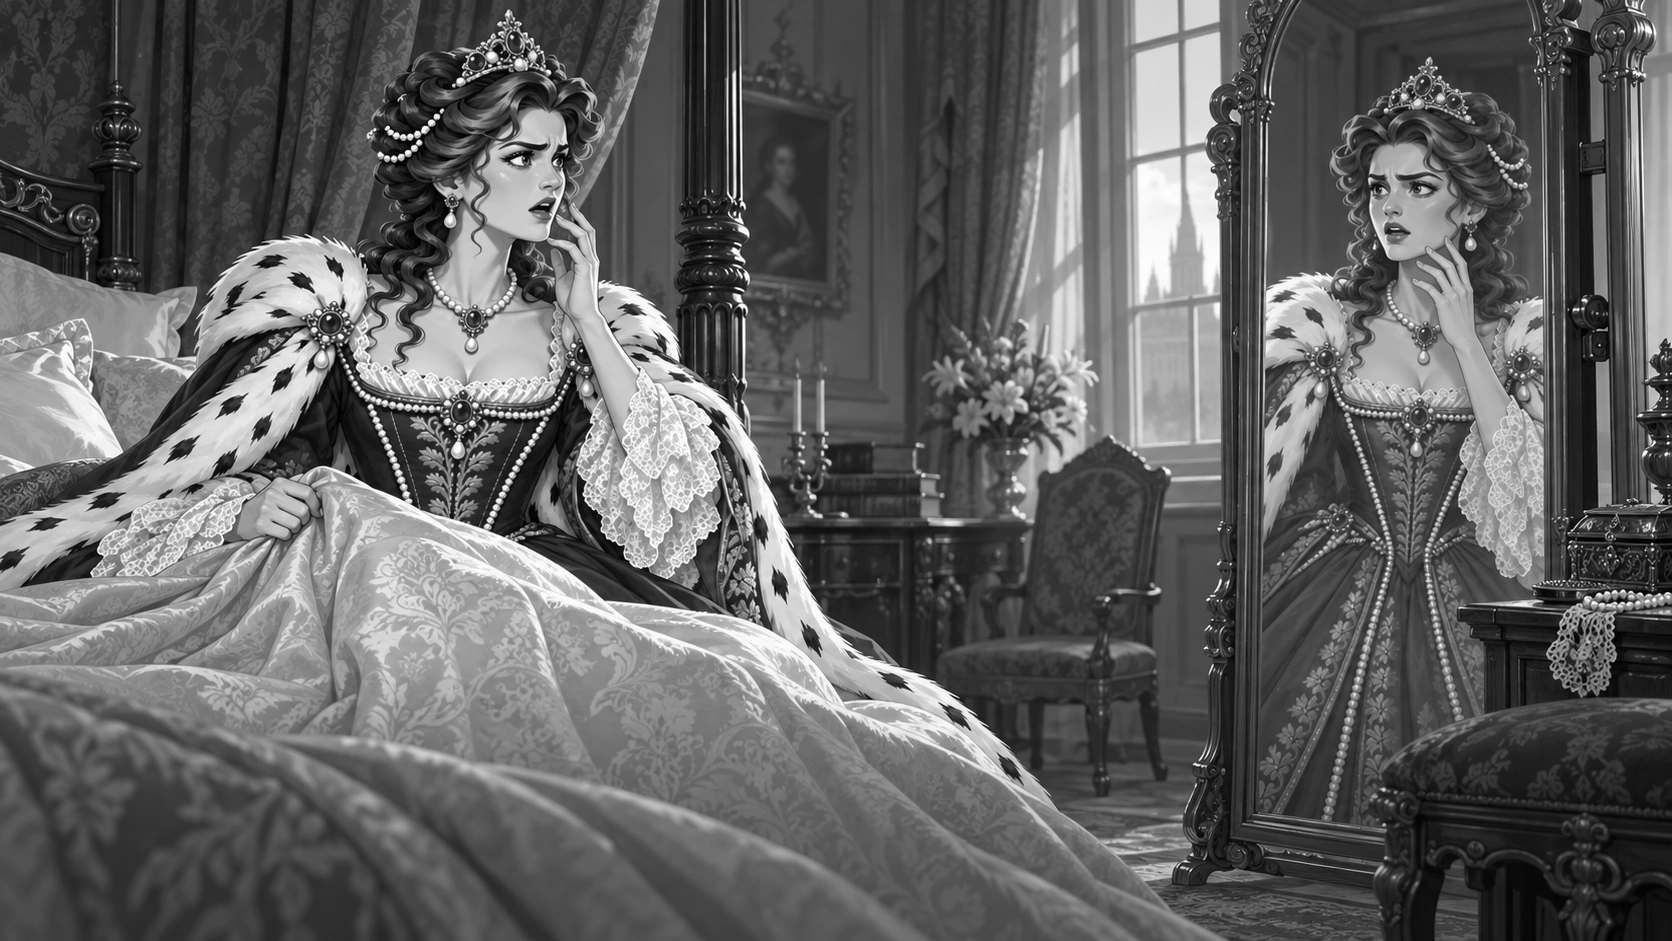
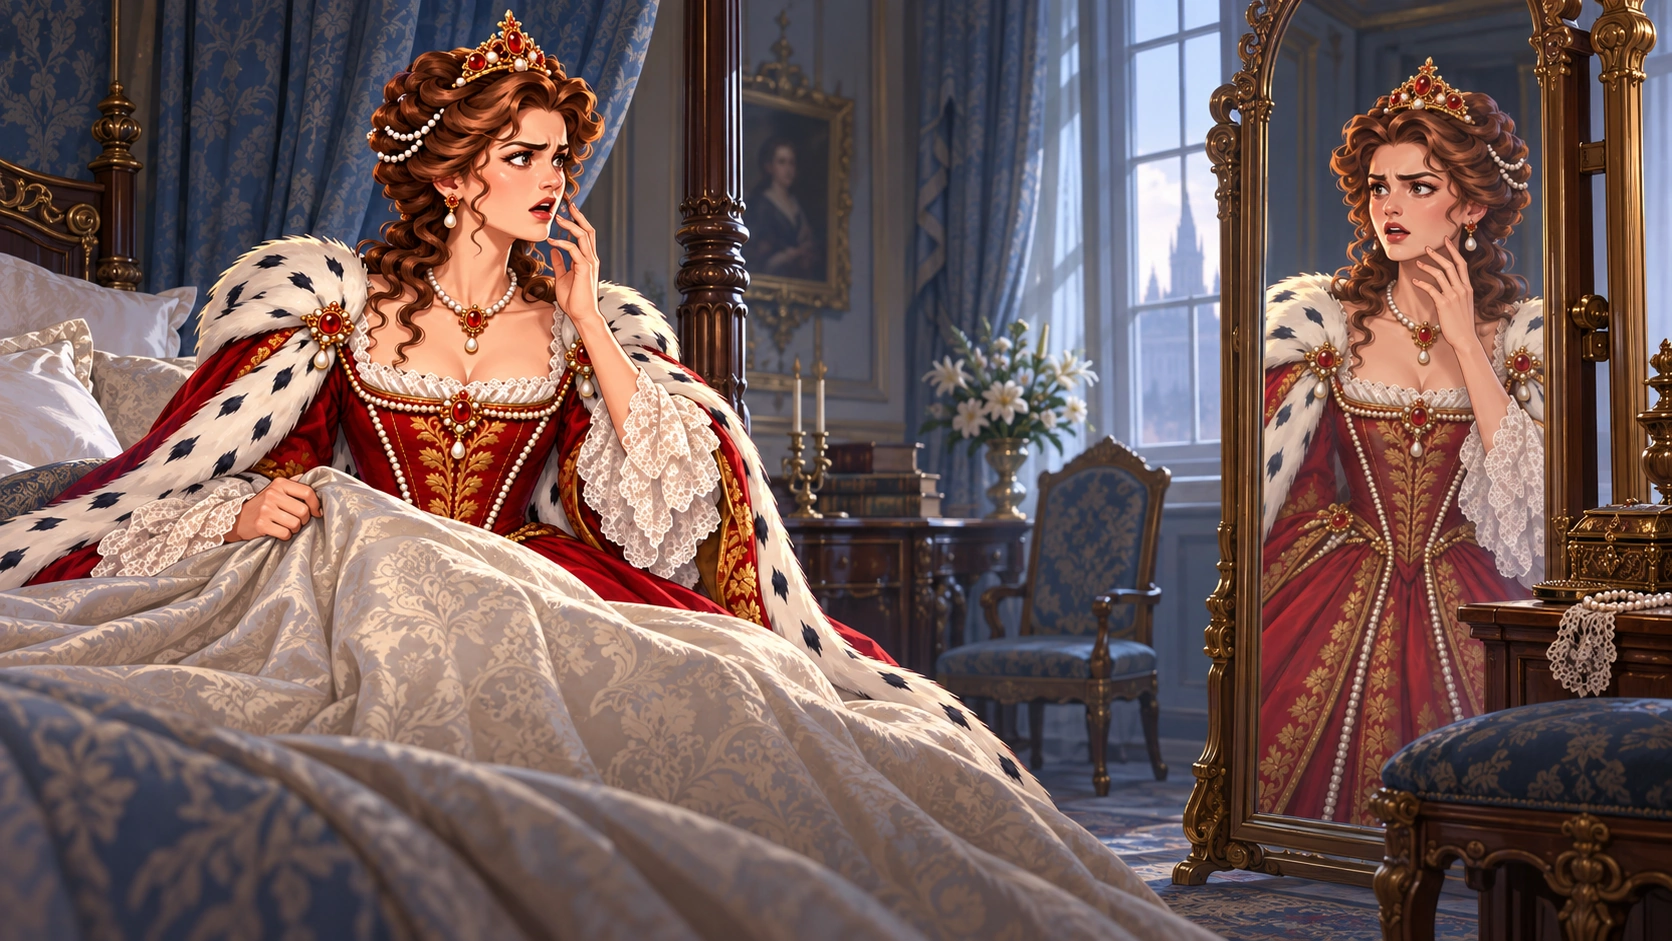
Add files via upload

diff --git a/index.html b/index.html
@@ -7,8 +7,42 @@
   <meta name="mobile-web-app-capable" content="yes">
   <meta name="apple-mobile-web-app-capable" content="yes">
   <meta name="apple-mobile-web-app-status-bar-style" content="black-translucent">
-  <title>태양왕이 여왕이 되었다 · v0.49</title>
-  <link rel="stylesheet" href="css/style.css">
+  <title>태양왕이 여왕이 되었다 · v0.51</title>
+  <link rel="stylesheet" href="css/style.css?v=050">
+
+  <style>
+    #sunRecovery{position:fixed;inset:0;z-index:100000;background:rgba(5,8,13,.97);color:#f1ece1;display:none;align-items:center;justify-content:center;padding:26px;font-family:system-ui,sans-serif;text-align:center}
+    #sunRecovery.is-visible{display:flex}#sunRecovery>div{max-width:460px}#sunRecovery h2{margin:0 0 12px;font-size:23px}#sunRecovery p{line-height:1.6;font-size:15px}#sunRecovery button{margin-top:14px;padding:12px 20px;background:#d7ba72;color:#17130c;border:0;border-radius:7px;font-weight:800;cursor:pointer}
+  </style>
+  <script>
+  (function(){
+    var hasFatal=false;
+    function showProblem(){var el=document.getElementById('sunRecovery');if(el)el.classList.add('is-visible');}
+    window.addEventListener('error',function(ev){
+      if(ev instanceof ErrorEvent && ev.message && !/ResizeObserver loop/i.test(ev.message)){hasFatal=true;showProblem();}
+    });
+    window.addEventListener('unhandledrejection',function(ev){
+      var msg=String(ev.reason||'');if(/Loading chunk|ReferenceError|SyntaxError|TypeError/.test(msg)){hasFatal=true;showProblem();}
+    });
+    window.sunKingHardRefresh=async function(){
+      var btn=document.getElementById('sunRecoveryButton');if(btn)btn.disabled=true;
+      try{if('caches' in window){var names=await caches.keys();await Promise.all(names.filter(function(k){return k.startsWith('sun-king-queen-')}).map(function(k){return caches.delete(k)}));}
+        if(navigator.serviceWorker){var regs=await navigator.serviceWorker.getRegistrations();await Promise.all(regs.filter(function(r){return r.scope.includes('/-france-england/')||r.scope.includes('127.0.0.1')}).map(function(r){return r.unregister()}));}}
+      catch(err){}
+      var url=new URL(location.href);url.searchParams.set('refresh',String(Date.now()));location.replace(url.href);
+    };
+    window.addEventListener('DOMContentLoaded',function(){
+      var btn=document.getElementById('startBtn');if(!btn)return;
+      btn.addEventListener('click',function(){setTimeout(function(){
+        if(hasFatal)return;
+        var story=document.getElementById('storyScreen');if(!story||!story.classList.contains('active'))return;
+        var isShown=function(id){var el=document.getElementById(id);return !!el && getComputedStyle(el).display!=='none' && getComputedStyle(el).visibility!=='hidden'};
+        var panel=document.getElementById('dialogueText');var intro=document.getElementById('openingNarrationText');
+        if(!isShown('openingNarrationOverlay')&&!isShown('intertitleOverlay')&&!isShown('actionBeatOverlay') && (!isShown('dialoguePanel') || !(panel&&panel.textContent.trim()))){showProblem();}
+      },4300);});
+    });
+  })();
+  </script>
 </head>
 <body>
   <div id="rotateNotice" class="rotate-notice" aria-hidden="true">
@@ -19,9 +53,10 @@
 
   <button id="teacherPreviewBadge" class="teacher-preview-badge hidden">교사용 미리보기 · 종료</button>
 
+  <div id="sunRecovery" role="alertdialog" aria-labelledby="sunRecoveryTitle" aria-modal="true"><div><h2 id="sunRecoveryTitle">게임을 불러오지 못했습니다</h2><p>일부 파일이 이전 버전과 섞여 있을 수 있습니다. 저장된 진행 기록을 지우지 않고 최신 파일을 다시 불러옵니다.</p><button id="sunRecoveryButton" type="button" onclick="sunKingHardRefresh()">최신 파일 다시 불러오기</button></div></div>
   <main id="app">
     <section id="titleScreen" class="screen title-screen active" aria-label="시작 화면">
-      <img class="title-poster-img" src="images/specials/title_poster.webp" alt="" aria-hidden="true">
+      <img class="title-poster-img" src="images/specials/title_poster.webp?v=050" alt="" aria-hidden="true">
       <div class="title-copy">
         <p class="eyebrow reveal r1">1702 · FRANCE × ENGLAND</p>
         <h1 id="teacherTapTarget" class="reveal r2">태양왕이<br><em>여왕이 되었다</em></h1>
@@ -32,7 +67,7 @@
           <button id="restartBtn" class="ghost hidden">처음부터 시작</button>
         </div>
       </div>
-      <div class="version-tag">GAME / VERIFIED QA FIX · v0.49</div>
+      <div class="version-tag">GAME / FULL PLAYBACK REPAIR · v0.51</div>
       <button id="fullscreenBtn" class="icon-btn fullscreen-btn" aria-label="전체화면 전환">전체화면</button>
       <button id="musicBtn" class="icon-btn music-btn" aria-label="배경음악 설정">음악 ON</button>
       <button id="soundBtn" class="icon-btn sound-btn" aria-label="진동 설정">진동 ON</button>
@@ -183,7 +218,7 @@
   </dialog>
 
   <dialog id="teacherDialog" class="teacher-dialog">
-    <div class="dialog-head"><div><small>TEACHER TOOLS · v0.49</small><h2>교사용 테스트</h2></div><button data-close="teacherDialog">닫기</button></div>
+    <div class="dialog-head"><div><small>TEACHER TOOLS · v0.51</small><h2>교사용 테스트</h2></div><button data-close="teacherDialog">닫기</button></div>
     <div id="teacherDebug" class="teacher-debug"></div>
     <div class="teacher-quick">
       <button data-debate-jump="tax">DEBATE 1 테스트</button>
@@ -201,19 +236,20 @@
     <button id="teacherReset" class="danger">학생용 저장 상태 초기화</button>
   </dialog>
 
-  <script src="js/storyData.js"></script>
-  <script src="js/debateData.js"></script>
-  <script src="js/stageMap.js"></script>
-  <script src="js/assetMap.js"></script>
-  <script src="js/audioMap.js"></script>
-  <script src="js/visualMap.js"></script>
-  <script src="js/directorMap.js"></script>
-  <link rel="stylesheet" href="css/presentation.css">
-  <link rel="stylesheet" href="css/playerFlowFix.css">
-  <link rel="stylesheet" href="css/mobileViewportFix.css?v=049">
-  <link rel="stylesheet" href="css/v034InteractionFix.css?v=049">
-  <script src="js/portraitLayout.js"></script>
-  <script src="js/app.js"></script>
-  <script src="js/mobileViewportFix.js?v=049"></script>
+  <script src="js/storyData.js?v=050"></script>
+  <script src="js/debateData.js?v=050"></script>
+  <script src="js/stageMap.js?v=050"></script>
+  <script src="js/assetMap.js?v=050"></script>
+  <script src="js/audioMap.js?v=050"></script>
+  <script src="js/visualMap.js?v=050"></script>
+  <script src="js/directorMap.js?v=050"></script>
+  <link rel="stylesheet" href="css/presentation.css?v=050">
+  <link rel="stylesheet" href="css/playerFlowFix.css?v=050">
+  <link rel="stylesheet" href="css/mobileViewportFix.css?v=050">
+  <link rel="stylesheet" href="css/v034InteractionFix.css?v=050">
+  <script src="js/portraitLayout.js?v=050"></script>
+  <script src="js/app.js?v=050"></script>
+  <script src="js/mobileViewportFix.js?v=050"></script>
+  <script>if(window.SUN_KING_RUNTIME_VERSION!=='v0.51'){document.getElementById('sunRecovery')?.classList.add('is-visible');}</script>
 </body>
 </html>

diff --git a/js/app.js b/js/app.js
@@ -2,7 +2,8 @@
   'use strict';
   const $=s=>document.querySelector(s);
   const $$=s=>Array.from(document.querySelectorAll(s));
-  const APP_VERSION='v0.49';
+  const APP_VERSION='v0.51';
+  window.SUN_KING_RUNTIME_VERSION=APP_VERSION;
   const STORAGE_KEY='sun-king-queen-v0.27'; // preserve existing classroom progress
   const LEGACY_KEYS=['sun-king-queen-v0.26','sun-king-queen-v0.25','sun-king-queen-v0.24','sun-king-queen-v0.23','sun-king-queen-v0.22','sun-king-queen-v0.21','sun-king-queen-v0.20','sun-king-queen-v0.19','sun-king-queen-v0.18','sun-king-queen-v0.17','sun-king-queen-v0.16','sun-king-queen-v0.15','sun-king-queen-v0.14','sun-king-queen-v0.13','sun-king-queen-v0.12','sun-king-queen-v0.11','sun-king-queen-v0.10','sun-king-queen-v0.9','sun-king-queen-v0.8','sun-king-queen-v0.7','sun-king-queen-v0.6','sun-king-queen-v0.5','sun-king-queen-v0.4','sun-king-queen-v0.3','sun-king-queen-v0.2'];
   const TOTAL_BULLETS=LOGIC_BULLETS.length;
@@ -446,6 +447,7 @@
   function clearTyping(){if(typing?.timer)clearTimeout(typing.timer);typing=null}
   function clearDirectionTimer(){if(directionTimer)clearTimeout(directionTimer);directionTimer=null}
   const STORY_EMPHASIS_TERMS=[
+    '경들은 이 나라의 역사를 잊은 건 아니겠지?','경들은 이 나라의 역사를 잊은 건 아니겠지?','이 나라의 역사를 잊으신 건 아니겠지요?','폐하께서야말로 영국이 지나온 역사를 잊고 계신 듯합니다.',
     '영국에서 왕은 군림하되 통치하지 않는다.','짐이 곧 국가다!','짐은 태양이다!','국가는 왕 한 사람보다 큽니다.','하늘 없이 혼자 뜨는 것은 아니었군.',
     '왕권신수설','권리장전','관료제','상비군','파리 고등법원','의회','세금','왕권','왕관','전쟁','베르사유 궁전'
   ].sort((a,b)=>b.length-a.length);
@@ -454,7 +456,7 @@
     const raw=String(text).slice(0,limit);
     return raw.split(STORY_EMPHASIS_RE).map(part=>STORY_EMPHASIS_TERMS.includes(part)?`<span class=\"story-emphasis\">${escapeHtml(part)}</span>`:escapeHtml(part)).join('').replace(/\n/g,'<br>');
   }
-  const KEY_LINE_SNIPPETS=['애송이 앤','의회를 소집하라!','영국에서 왕은 군림하되 통치하지 않는다.','짐은 태양이다!','짐이 곧 국가다!','그건 프랑스입니다.','국가는 왕 한 사람보다 큽니다.','태양도…','하늘 없이 혼자 뜨는 것은 아니었군.'];
+  const KEY_LINE_SNIPPETS=['애송이 앤','의회를 소집하라!','영국에서 왕은 군림하되 통치하지 않는다.','짐은 태양이다!','짐이 곧 국가다!','그건 프랑스입니다.','국가는 왕 한 사람보다 큽니다.','태양도…','하늘 없이 혼자 뜨는 것은 아니었군.','경들은 이 나라의 역사를 잊은 건 아니겠지?','이 나라의 역사를 잊으신 건 아니겠지요?','영국이 지나온 역사를 잊고'];
   function isKeyLine(text){const t=String(text||'');return KEY_LINE_SNIPPETS.some(v=>t.includes(v))}
   function typeDelayFor(text){const t=String(text||'');if(isKeyLine(t))return 44;if(t.length>=95)return 24;if(t.length>=70)return 27;if(t.length>=45)return 30;return 34}
   function typeText(text,{instant=false,speed=1}={}){
@@ -904,7 +906,7 @@
     els.speaker.textContent=line.type==='narration'?'':(line.speaker||'');
     const group=line.type==='narration'?'narration':line.type==='monologue'?'monologue':(ACTOR_DEFS?.[line.actorId]?.group||'neutral');
     syncActorPresence(currentScene());
-    const spokenText=String(line.text||''),keyLine=isKeyLine(spokenText),emotionLine=line.type==='dialogue'&&(spokenText.length<=48&&(keyLine||/[!！]/.test(spokenText))),heatedLine=line.type==='dialogue'&&(/처형|짐이\s*곧\s*국가다|짐은\s*태양이다|감히\s*나를|신에게서\s*왔다/.test(spokenText)||currentScene()?.id==='scene-33');
+    const spokenText=String(line.text||''),keyLine=isKeyLine(spokenText),emotionLine=line.type==='dialogue'&&(spokenText.length<=48&&(keyLine||/[!！]/.test(spokenText))),historyEchoLine=line.type==='dialogue'&&/역사를\s*잊|영국이\s*지나온\s*역사/.test(spokenText),heatedLine=line.type==='dialogue'&&(/처형|짐이\s*곧\s*국가다|짐은\s*태양이다|감히\s*나를|신에게서\s*왔다/.test(spokenText)||currentScene()?.id==='scene-33'||historyEchoLine);
     els.panel.dataset.speakerGroup=group;els.panel.classList.toggle('long-line',spokenText.length>=72);els.panel.classList.toggle('key-line',keyLine);
     els.panel.classList.toggle('emotion-line',emotionLine);
     els.panel.classList.toggle('heated-line',heatedLine);
@@ -1002,7 +1004,7 @@
   }
 
   function nextScene(){
-    clearTyping();clearDirectionTimer();clearSpecialState();clearOpeningNarration();clearActionBeat();const from=currentScene(),nextIndex=state.sceneIndex+1,next=STORY_DATA[nextIndex];busy=true;
+    clearTyping();clearDirectionTimer();clearSpecialState();clearOpeningNarration();clearActionBeat();hideFlashback();const from=currentScene(),nextIndex=state.sceneIndex+1,next=STORY_DATA[nextIndex];busy=true;
     const proceed=()=>{
       sceneExitTimer=null;
       if(!next){state.sceneIndex=nextIndex;state.lineIndex=0;save();busy=false;return finishStory()}

diff --git a/sw.js b/sw.js
@@ -1,6 +1,6 @@
-const CACHE='sun-king-queen-v0.49-verified-qa-fix';
+const CACHE='sun-king-queen-v0.51-full-playback-repair';
 const APP_SHELL=['./css/presentation.css','./css/playerFlowFix.css','./css/mobileViewportFix.css','./css/v034InteractionFix.css','./js/mobileViewportFix.js','./js/portraitLayout.js','./','./index.html','./css/style.css','./js/storyData.js','./js/debateData.js','./js/stageMap.js','./js/assetMap.js','./js/audioMap.js','./js/visualMap.js','./js/directorMap.js','./js/app.js','./images/specials/title_poster.webp','./images/backgrounds/bg_versailles_hall.webp','./images/backgrounds/bg_dark_throne.webp','./images/backgrounds/bg_anne_bedroom.webp','./images/backgrounds/bg_english_study.webp','./images/backgrounds/bg_parliament.webp','./images/backgrounds/bg_harbor_departure.webp','./images/backgrounds/bg_dream_hall.webp','./images/characters/french_general.webp','./images/characters/english_general.webp','./images/characters/maid.webp','./images/specials/louis_wakes_as_anne.webp','./images/specials/summon_parliament_event.webp','./images/specials/sun_king_outburst.webp'];
-self.addEventListener('install',e=>e.waitUntil(caches.open(CACHE).then(c=>c.addAll(APP_SHELL)).then(()=>self.skipWaiting())));
+self.addEventListener('install',e=>e.waitUntil(caches.open(CACHE).then(async c=>{const core=APP_SHELL.filter(p=>/\.(js|css|html)$/.test(p)||p==='./');await Promise.all(core.map(p=>c.add(p).catch(()=>{})));self.skipWaiting();})));
 self.addEventListener('activate',e=>e.waitUntil(caches.keys().then(keys=>Promise.all(keys.filter(k=>k.startsWith('sun-king-queen-')&&k!==CACHE).map(k=>caches.delete(k)))).then(()=>self.clients.claim())));
 async function networkFirst(req){const cache=await caches.open(CACHE);try{const res=await fetch(req);if(res&&res.ok&&res.status===200&&!req.headers.has('range'))cache.put(req,res.clone()).catch(()=>{});return res}catch{const hit=await cache.match(req);return hit||Response.error()}}
 async function cacheFirst(req){const cache=await caches.open(CACHE);const hit=await cache.match(req);if(hit)return hit;const res=await fetch(req);if(res&&res.ok&&res.status===200&&!req.headers.has('range'))cache.put(req,res.clone()).catch(()=>{});return res}

diff --git a/js/assetMap.js b/js/assetMap.js
@@ -71,7 +71,8 @@ window.SCENE_PROP_MAP = {
   'scene-22':'europe_war_map','scene-23':'europe_war_map','scene-24':'europe_war_map',
   'scene-28':'dream_red_seal','scene-30':'bill_of_rights','scene-31':'bill_of_rights','scene-34':'bill_of_rights','scene-36':'crown'
 };
-window.resolveAsset=function(type,key){const entry=window.ASSET_MAP?.[type]?.[key];return entry?.path||entry||null};
-window.resolveActorAsset=function(actorId,variant='default'){const actor=window.ASSET_MAP?.actors?.[actorId];if(!actor)return null;return actor[variant]||actor.default||null};
-window.resolveDocumentMeta=function(key){return window.ASSET_MAP?.documents?.[key]||null};
-window.resolveSpecialMeta=function(key){return window.ASSET_MAP?.specials?.[key]||null};
+window.assetUrl=function(path){if(!path||typeof path!=='string')return path;return path.startsWith('images/')?`${path}?v=050`:path};
+window.resolveAsset=function(type,key){const entry=window.ASSET_MAP?.[type]?.[key];return window.assetUrl(entry?.path||entry||null)};
+window.resolveActorAsset=function(actorId,variant='default'){const actor=window.ASSET_MAP?.actors?.[actorId];if(!actor)return null;return window.assetUrl(actor[variant]||actor.default||null)};
+window.resolveDocumentMeta=function(key){const entry=window.ASSET_MAP?.documents?.[key];return entry?{...entry,path:window.assetUrl(entry.path)}:null};
+window.resolveSpecialMeta=function(key){const entry=window.ASSET_MAP?.specials?.[key];return entry?{...entry,path:window.assetUrl(entry.path)}:null};

diff --git a/js/mobileViewportFix.js b/js/mobileViewportFix.js
@@ -1,11 +1,11 @@
-/* v0.49 - full viewport / clean title fix */
+/* v0.50 - full viewport / clean title fix */
 (()=>{
   'use strict';
   const root=document.documentElement;
   const $=q=>document.querySelector(q);
-  document.title='태양왕이 여왕이 되었다 · v0.49';
+  document.title='태양왕이 여왕이 되었다 · v0.50';
   const versionTag=document.querySelector('.version-tag');
-  if(versionTag)versionTag.textContent='GAME / VERIFIED QA FIX · v0.49';
+  if(versionTag)versionTag.textContent='GAME / FULL PLAYBACK REPAIR · v0.50';
 
   function syncViewport(){
     const vv=window.visualViewport;

diff --git a/README.md b/README.md
@@ -24,7 +24,7 @@
 
 자세한 변경사항은 `CHANGELOG_v0.32.md`를 참고하세요.
 
-## v0.49 Soundtrack
+## v0.51 Soundtrack
 
 `audio/` 폴더의 사용자 제공 OST 8곡을 실제 게임 흐름에 연결했습니다.
 브라우저 자동재생 정책 때문에 첫 사용자 터치 이후 음악이 시작됩니다. 메인 화면에서 시작 버튼을 누르면 `Le Roi Soleil`이 바로 시작되고 프랑스 장면까지 끊기지 않고 이어집니다.
@@ -41,9 +41,13 @@
 음악은 약 1초 크로스페이드되며, 전환 스팅어가 재생될 때 기존 BGM은 자동으로 낮아집니다. 메인 화면 및 게임 메뉴에서 BGM을 켜고 끌 수 있습니다.
 
 
-## v0.49 점검 및 오류 수정
+## v0.51 점검 및 오류 수정
 - 플래시백 상태 변수 선언 및 과거 루이 사진·대사창 동시 표시 보정.
 - 음악 전환 볼륨 범위 오류, 중복 음량 페이드 및 전환곡 조기 중단 보정.
 - 귀환 빛 연출을 검은 전환보다 앞에 표시해 전체 과정이 보이도록 변경.
 - 화면 버전을 v0.32로 덮어쓰던 이전 스크립트 수정.
 - QA 점검 스크립트 실행 오류 수정.
+
+
+## v0.51 배포 주의
+전체 파일(루트의 index.html, sw.js, js/, css/, images/, audio/)을 한 번에 업로드해야 합니다. index.html만 따로 올리거나 js/app.js만 올리면 실행 버전이 섞여 프롤로그/대사가 멈출 수 있습니다. 기존 학생 진행 상태는 로컬 저장소에 유지됩니다.

diff --git a/CHANGELOG.md b/CHANGELOG.md
@@ -1,5 +1,12 @@
 # CHANGELOG
 
+## v0.51 · 전체 실행 복구
+- 배포 저장소의 index.html(v0.48)과 js/app.js(v0.49)가 섞인 상태 및 v0.48에서 발생하는 `pinnedFlashbackSceneId is not defined` 오류를 재현. v0.49 수정본을 기준으로 모든 파일을 v0.51으로 통일.
+- 모든 JS/CSS 참조에 동일한 버전 쿼리를 부여하고 이미지 경로도 버전화하여 예전 서비스워커 캐시와 충돌하는 상황을 줄임.
+- 자바스크립트 초기화 오류 시 빈 화면만 남는 대신 안내창과 저장 기록을 유지한 캐시 새로고침 기능 제공.
+- 서비스워커 설치가 이미지·오디오 하나의 로드 실패 때문에 통째로 중단되지 않도록 핵심 파일만 독립적으로 캐시.
+- 프롤로그 자동 자막, 첫 대사, 교사용 장면 점프, 이미지·오디오 파일 연결, 디베이트를 브라우저/정적 검증으로 재점검.
+
 ## v0.49
 - QA에서 재현된 플래시백 미선언 변수 오류 및 대사창 가림 현상 수정.
 - 음량 애니메이션의 범위 이탈, 겹치는 조절 애니메이션과 음악 전환곡 조기 종료 수정.
